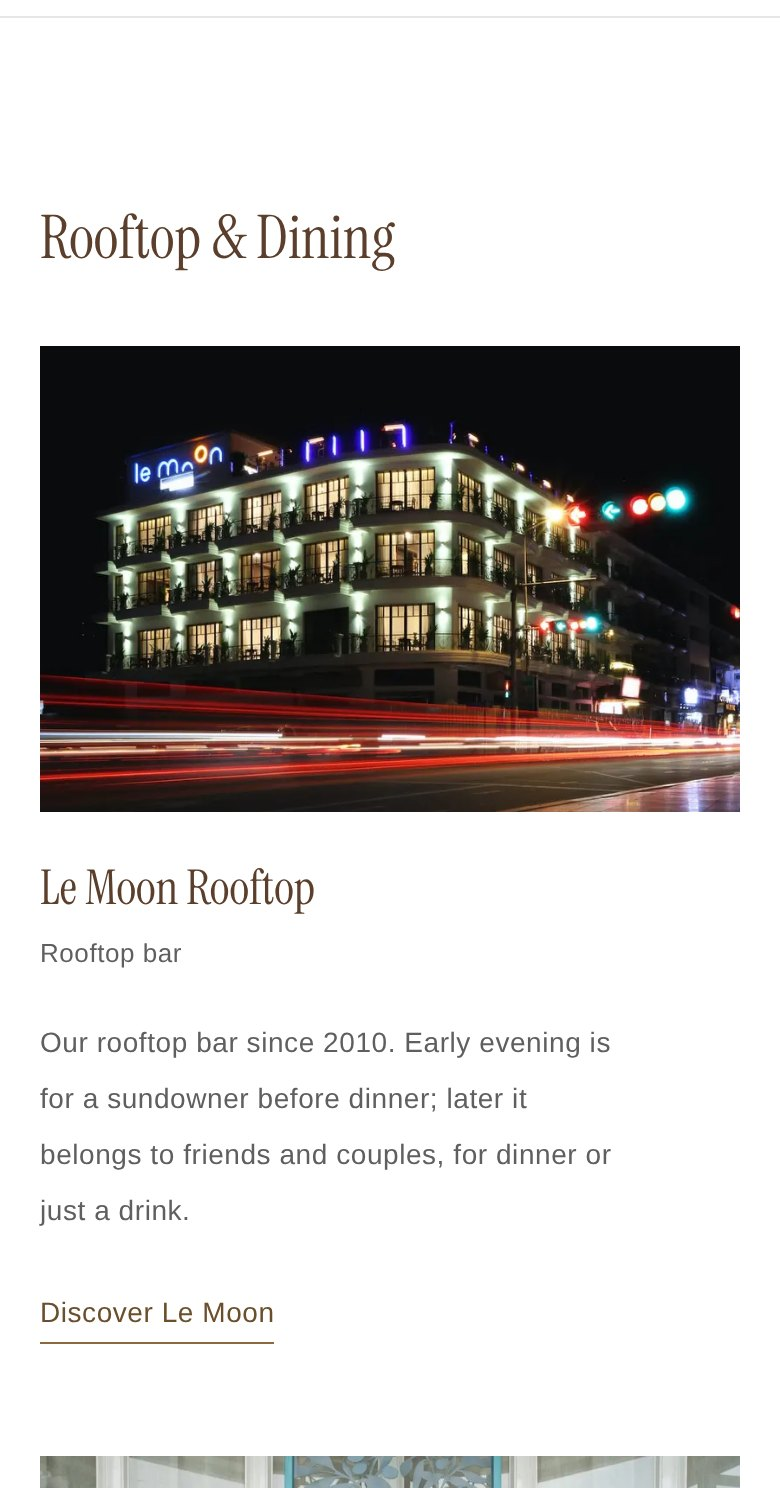
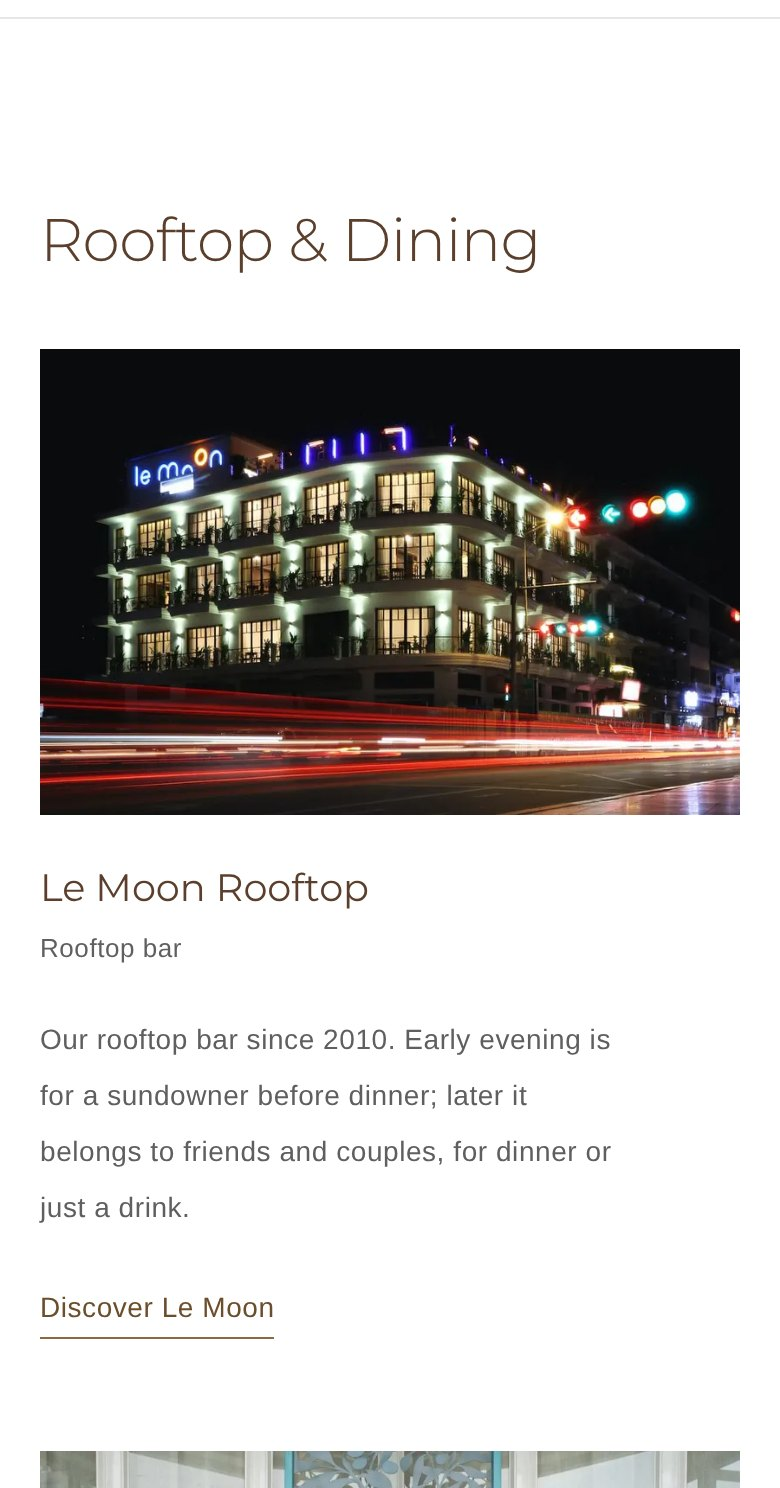
Headings: back to Montserrat; Instrument Serif removed
Reverts the serif experiment at the hotel's request. Section headings and room
titles are Montserrat Light (300) at 30 to 34px and 36 to 40px; sub-headings
(venue names, the room names on the photo mosaic) Regular (400) at their
original 19 to 23px; the room-page price figure Light. The homepage hero,
navigation, buttons and footer headings are unchanged. Instrument Serif is
gone: no import, no package, no font file in the build, and only Montserrat
and Helvetica render anywhere. The 14px / spacing 20 / line height 28 / #5F5F5F
body text stays. Layouts, photography and content untouched (gallery,
amenities and room checks identical; mosaic names 5.1:1 or better over
photos). Notes rewritten in docs/TYPOGRAPHY.md section 7.

Claude-Session: https://claude.ai/code/session_01Ltb6LhfXKYs7J7ZKfoUyej

diff --git a/src/styles/global.css b/src/styles/global.css
@@ -15,11 +15,9 @@
   --line: #e6e6e6; /* neutral hairlines (header, menu) */
   --grey-fill: #f2f2f2; /* only visible while a photograph is loading */
 
-  /* Typography experiment: Instrument Serif (self-hosted, regular only) for section headings and room titles;
-     Montserrat (self-hosted) for navigation, buttons, the homepage hero and small interface text; the original
-     site's Helvetica for text. Helvetica is a system stack: no font files are bundled, so each device uses its
-     own Helvetica Neue, Helvetica or Arial. */
-  --font-display: 'Instrument Serif', 'Iowan Old Style', Georgia, 'Times New Roman', serif;
+  /* Montserrat (self-hosted, variable weight) for headings and interface; the original site's Helvetica for text.
+     Helvetica is a system stack: no font files are bundled, so each device uses its own Helvetica Neue, Helvetica
+     or Arial. */
   --font-heading: 'Montserrat Variable', 'Segoe UI', system-ui, -apple-system, sans-serif;
   --font-text: 'Helvetica Neue', Helvetica, Arial, sans-serif;
 
@@ -38,11 +36,10 @@
   --step-3: clamp(1.5rem, 1.304rem + 0.87vw, 2rem); /* h2 */
   --step-4: clamp(1.75rem, 1.31rem + 1.957vw, 2.875rem); /* h1 (the homepage hero, in Montserrat) */
 
-  /* Serif headings are set light and small: section headings 30 to 34px, room titles 36 to 40px, sub-headings
-     24 to 28px. */
-  --display-2: clamp(1.875rem, 1.6rem + 0.85vw, 2.125rem);
-  --display-1: clamp(2.25rem, 1.95rem + 0.95vw, 2.5rem);
-  --display-3: clamp(1.5rem, 1.4rem + 0.4vw, 1.75rem);
+  /* Headings are set light: section headings 30 to 34px in Light (300), room titles 36 to 40px in Light, sub-headings
+     19 to 23px in Regular (400). The homepage hero keeps its own Medium (500). */
+  --heading-2: clamp(1.875rem, 1.6rem + 0.85vw, 2.125rem);
+  --heading-1: clamp(2.25rem, 1.95rem + 0.95vw, 2.5rem);
 
   --gutter: clamp(1.25rem, 4.5vw, 3.5rem);
   --max: 84rem;
@@ -113,23 +110,20 @@ h1 {
   letter-spacing: -0.015em;
 }
 
-/* Section headings and sub-headings: Instrument Serif Regular, quiet and light. (h1 stays Montserrat here, for the
-   homepage hero; the room titles set their own.) */
-h2,
-h3 {
-  font-family: var(--font-display);
-  font-weight: 400;
-  letter-spacing: 0; /* the face is already set close */
-}
-
+/* Section headings: Montserrat Light. Sub-headings (venue names, the room names on the photo mosaic): Regular, a little
+   smaller, so they stay clearly below the section heading. (h1 is the homepage hero, which sets its own; the room
+   titles set theirs.) */
 h2 {
-  font-size: var(--display-2);
-  line-height: 1.15;
+  font-size: var(--heading-2);
+  font-weight: 300;
+  line-height: 1.2;
+  letter-spacing: -0.01em;
 }
 
 h3 {
-  font-size: var(--display-3);
-  line-height: 1.2;
+  font-size: var(--step-2);
+  font-weight: 400;
+  line-height: 1.3;
 }
 
 p {

diff --git a/docs/TYPOGRAPHY.md b/docs/TYPOGRAPHY.md
@@ -1,6 +1,6 @@
 # Typography
 
-> **Current experiment (typography experiment 4, section 7): Instrument Serif headings, softer smaller Helvetica body.** Before it, the direction was (experiment 3): Montserrat Regular headings and interface + Helvetica system stack for body paragraphs (section 6).** Experiment 2 was Montserrat + Open Sans. Section 5 describes it. Sections 1 to 4 record the earlier Newsreader / Hanken Grotesk direction and the research on the original site, which still stands. The Newsreader version is preserved in git at commit `15a7fa7`.
+> **Current typography (section 7): light Montserrat headings, 14px Helvetica body in dark grey.** Before it, the direction was (experiment 3): Montserrat Regular headings and interface + Helvetica system stack for body paragraphs (section 6).** Experiment 2 was Montserrat + Open Sans. Section 5 describes it. Sections 1 to 4 record the earlier Newsreader / Hanken Grotesk direction and the research on the original site, which still stands. The Newsreader version is preserved in git at commit `15a7fa7`.
 
 ## 1. Heading scale (earlier Newsreader pass, superseded by section 5)
 
@@ -125,29 +125,28 @@ The hotel verified the original site's body text in Elementor: Helvetica, 1.1em 
 - **Header:** Montserrat is wider than Open Sans, so the nav needed a slightly tighter gap and a non-wrapping wordmark to stay on one line from 896px up.
 - **Screenshots:** `docs/screenshots/typography/body-copy-*.jpg`. This environment has no Helvetica, so it renders the stack with Liberation Sans (metric-compatible with Arial and close to Helvetica); on real devices the letterforms will differ slightly and the line breaks may shift by a word.
 
-## 7. Typography experiment 4: a quieter, lighter register
+## 7. Current typography: light Montserrat headings, 14px Helvetica body
 
-Studied from a reference screenshot of a heritage hotel website (not copied: only its proportions and rhythm). What it showed: a light serif heading about 2.5 times the body size; small soft slate-grey sans body text on a narrow measure of about 50 characters; very open line spacing; links in regular weight with a thin pale underline; wide, even gaps from heading to paragraph to link.
+Two directions were tried in this round and one was dropped: **Instrument Serif headings were tried and reverted at the hotel's request; the site uses Montserrat for every heading, and no serif font is loaded.** What stayed: lighter headings and the body-text values from the design file.
 
-The change (typography only: no layout, photography, room information, background colours or booking behaviour changed):
+Typography only: no layout, photography, room information, background colours or booking behaviour changed.
 
-| | Before | After |
+| | Before this round | Now |
 |---|---|---|
-| Section headings (h2) | Montserrat 400, 24 to 32px | **Instrument Serif Regular, 30 to 34px** (34px from about 1000px wide) |
-| Room titles (room-page h1) | Montserrat 400, 28 to 46px | **Instrument Serif Regular, 36 to 40px** |
-| Sub-headings (h3: venue names, mosaic room names, price figure) | Montserrat, 19 to 23px | Instrument Serif Regular, 24 to 28px |
-| Body text | Helvetica 17.6px, `#333333`, line height 1.7, letter spacing 0.4px | **Helvetica Regular 14px, `#5F5F5F`, line height 28px (2.0), character spacing 20 (0.02em)**, as set in the design file |
-| Paragraph measure | 62 characters | 52 characters (about 55 to 60 characters of text) |
-| Links under venues | Bronze, bold | Bronze, regular, thin underline set a little lower |
+| Section headings (h2) | Montserrat 400, 24 to 32px | **Montserrat Light (300), 30 to 34px** (34px from about 1000px wide) |
+| Room titles (room-page h1) | Montserrat 400, 28 to 46px | **Montserrat Light (300), 36 to 40px** |
+| Sub-headings (h3: venue names, the room names on the photo mosaic) | Montserrat 400, 19 to 23px | Montserrat Regular (400), 19 to 23px (unchanged) |
+| Price figure on room pages | Montserrat 400, 24 to 32px | Montserrat Light (300), 24 to 32px |
+| Homepage hero | Montserrat 500 headline, 400 supporting line | unchanged |
+| Navigation, buttons, footer headings, wordmark | Montserrat | unchanged |
+| **Body text** | Helvetica 17.6px, `#333333`, line height 1.7, letter spacing 0.4px | **Helvetica Regular 14px, `#5F5F5F`, line height 28px (2.0), character spacing 20 (0.02em)** |
 
-Unchanged: the homepage hero (Montserrat 500 headline and supporting line), navigation, buttons, the footer's small headings, the wordmark, the room-page spec line's wording and all content. The spec line moves to Helvetica (it reads as body text now); the price figure moves to the display serif.
+**Weights, and why.** The large headings (30 to 40px) are Light: at that size the thin strokes stay clear and the headings sit quietly instead of dominating the page. The sub-headings are Regular: they are small (19 to 23px) and the mosaic names sit white over photographs, where Light would lose strength. The price figure is Light to match the headings beside it. The hero is Medium because it is white text over a photograph. Letter spacing on the large headings is slightly negative (-0.01 to -0.015em), as before.
 
-- **Font:** Instrument Serif, regular weight only (no italic loaded), self-hosted through `@fontsource/instrument-serif` (SIL OFL), Latin subset, about 21KB. It has no Khmer, so Noto Sans Khmer remains the plan for the Khmer pages. Fallback: Iowan Old Style, Georgia, Times New Roman.
-- **Why the sizes look smaller than the numbers:** Instrument Serif is a condensed face with a small x-height, so 34px reads about like 26px of Montserrat. That is the quieter effect asked for. If the headings feel too small in review, 38 to 44px is the range to try, set in `--display-2`, `--display-1` and `--display-3` in `global.css`.
-- **Body text values come from the design file (an Adobe XD text panel): Helvetica Regular, size 14, character spacing 20, line height 28, fill `#5F5F5F`.** XD's character spacing is in thousandths of an em, so 20 is 0.02em (0.28px at 14px); its sizes are CSS pixels. An earlier pass in this experiment guessed 16.5px, 1.75 and `#52585A`; these replace it.
-- **Colour:** body `#5F5F5F` on white is 6.4:1 (AA needs 4.5:1). The secondary grey is now the same value, so every body-style text is one grey. The room names over the homepage photographs, now in the thin serif at 28px, measure 5.0:1 or better against the brightest pixels behind them. Teak headings, the footer charcoal and all backgrounds are unchanged.
-- **Small notes and labels** (price note, "From", venue type, the back link, the footer note) are 13px so they stay a step below the body; the spec line and the venue links are 14px. **Interface elements keep their original line height** (buttons and navigation 1.65, the photo-mosaic overlay, the footer's lists and addresses 1.6 to 1.7): the 28px line height is for paragraphs, and applying it everywhere would have made buttons and panels taller. A layout comparison against the previous build shows every photograph, panel and grid at identical size; the footer is about 30px shorter because its text is smaller.
-- **Mobile:** 14px at 28px leading reads comfortably at 6.4:1, but 14px is on the small side for phones. If it feels small in review, 15px is the first thing to try (`--text-size` in `global.css`).
-- **Rhythm:** a little more room between a heading and its first paragraph (about 32px against 24px), 24px between paragraphs, and heading widths relaxed (16 characters) so the serif headings still break onto two lines where they did before.
-- **To revert:** `git revert` the experiment commit, or set `--font-display` to the Montserrat stack, `--ink` to `#333333`, and restore `.copy` (1.1rem, line height 1.7, letter spacing 0.4px, 62 characters). The body values are the `--text-size`, `--text-leading`, `--text-tracking` and `--ink` tokens at the top of `global.css`.
-- **Evidence:** `docs/screenshots/typography-experiment/`: `compare-welcome-*`, `compare-junior-description-*` and `compare-dining-*` (desktop and mobile, before above after), plus the individual `before-*` and `after-*` images (including the Riverside section, the Suites intro and the Amenities).
+**Body text values come from the design file (an Adobe XD text panel): Helvetica Regular, size 14, character spacing 20, line height 28, fill `#5F5F5F`.** XD's character spacing is in thousandths of an em, so 20 is 0.02em (0.28px at 14px); its sizes are CSS pixels. They are the tokens `--text-size`, `--text-leading`, `--text-tracking` and `--ink` at the top of `global.css`, and `.copy` (paragraphs) uses them with a measure of 52 characters.
+
+- **Colour:** body `#5F5F5F` on white is 6.4:1 (AA needs 4.5:1). The secondary grey is the same value, so all body-style text is one grey. The room names over the homepage photographs (white, Montserrat Regular) measure 5.1:1 or better against the brightest pixels behind them.
+- **Small notes and labels** (price note, "From", venue type, the back link, the footer note) are 13px so they stay a step below the body; the spec line and the venue links are 14px. **Interface elements keep their original line height** (buttons and navigation 1.65, the photo-mosaic overlay, the footer's lists and addresses 1.6 to 1.7): the 28px line height is for paragraphs, and applying it everywhere would have made buttons and panels taller. A layout comparison against the previous build showed every photograph, panel and grid at identical size.
+- **Mobile:** 14px at 28px leading reads comfortably at 6.4:1, but 14px is on the small side for phones. If it feels small in review, 15px is the first thing to try (`--text-size`).
+- **Sizes:** the heading sizes are `--heading-2` (30 to 34px) and `--heading-1` (36 to 40px) in `global.css`; the sub-headings use `--step-2`.
+- **Evidence:** `docs/screenshots/typography-experiment/`: `compare-welcome-*`, `compare-junior-description-*` and `compare-dining-*` (desktop and mobile, the original typography above the current), plus the individual `before-*` and `after-*` images (including the Riverside section, the Suites intro and the Amenities). The git history holds the serif attempt if it is ever wanted again.

diff --git a/docs/DESIGN-RATIONALE.md b/docs/DESIGN-RATIONALE.md
@@ -24,9 +24,9 @@ A full-width, immersive photograph with the text set directly on it in white Mon
 
 Typography experiment 2 (the Newsreader / Hanken Grotesk direction is in git at `15a7fa7`):
 
-- **Experiment (current): section headings and room titles in Instrument Serif Regular (30 to 34px and 36 to 40px); body Helvetica 14px with character spacing 20 (0.02em), line height 28px, in dark grey `#5F5F5F` (the design file's values); see `docs/TYPOGRAPHY.md` section 7.** Navigation, buttons and the homepage hero stay Montserrat. Before the experiment: headings and interface (nav, buttons): Montserrat Regular, open source (SIL OFL) and self-hosted. Body paragraphs: the original site's Helvetica, as a system stack (`Helvetica Neue`, Helvetica, Arial, sans-serif) with no font files bundled. Open Sans was dropped (typography experiment 3, see `docs/TYPOGRAPHY.md` section 6).
-- Fluid scale from `--step--1` to `--step-4` between 360 and 1280px wide. Main paragraphs 17.6px (1.1rem), line height 1.7, letter spacing 0.4px; H3 19 to 23px, H2 24 to 32px, H1 28 to 46px; lines held to about 62 characters, line height 1.65 for text.
-- Quiet by design: regular weights only, sentence case, no oversized display type. Details and the history are in `docs/TYPOGRAPHY.md`.
+- **Current: headings and interface in Montserrat (section headings and room titles Light 300 at 30 to 34px and 36 to 40px, sub-headings Regular 400), body Helvetica 14px with character spacing 20 (0.02em), line height 28px, dark grey `#5F5F5F` (the design file's values); see `docs/TYPOGRAPHY.md` section 7.** A serif heading trial was dropped. Montserrat is open source (SIL OFL) and self-hosted.
+- Fluid scale between 360 and 1280px wide: body 14px, section headings 30 to 34px, room titles 36 to 40px, sub-headings 19 to 23px; paragraphs held to about 52 characters of the font's width, line height 28px.
+- Quiet by design: large headings in Light, small ones in Regular, sentence case, no oversized display type. Details and the history are in `docs/TYPOGRAPHY.md`.
 - Neither font covers Khmer; Noto Sans Khmer is the planned partner later.
 
 ## Colour

diff --git a/README.md b/README.md
@@ -36,7 +36,7 @@ The hotel's own photographs are committed in `src/assets/photos/` (never hotlink
 | Hotel facts, booking link, contact, nav | `src/config/site.ts` |
 | Homepage copy and photo choices | `src/content/home.ts` |
 | Room starting prices (edit here only) | `src/data/pricing.ts` |
-| Colours (white, charcoal, teak, bronze), type scale (Instrument Serif headings, Montserrat interface, Helvetica text) | `src/styles/global.css` |
+| Colours (white, charcoal, teak, bronze), type scale (Montserrat headings and interface, Helvetica text) | `src/styles/global.css` |
 | Page sections | `src/components/` |
 | Sources, placeholders, questions for the hotel | `docs/CONTENT-SOURCES.md` |
 | Design rationale | `docs/DESIGN-RATIONALE.md` |
@@ -45,7 +45,7 @@ The hotel's own photographs are committed in `src/assets/photos/` (never hotlink
 | Accommodation page template and the Junior Suite page (content, sources, pending photos) | `docs/ROOM-TEMPLATE.md`, `src/content/rooms.ts`, `src/components/rooms/` |
 | Room photo shortlist | `docs/ROOM-PHOTO-CANDIDATES.md` |
 | Rooftop & Dining photos: what we have and need | `docs/DINING-PHOTOS.md` |
-| Type scale, original-site typography, the current serif-headings experiment | `docs/TYPOGRAPHY.md` |
+| Type scale, original-site typography, the current heading and body-text settings | `docs/TYPOGRAPHY.md` |
 | Screenshots | `docs/screenshots/` |
 
 The booking button reads one setting (`booking.url`). It currently points at the engine's undated property page, flagged as unverified.
